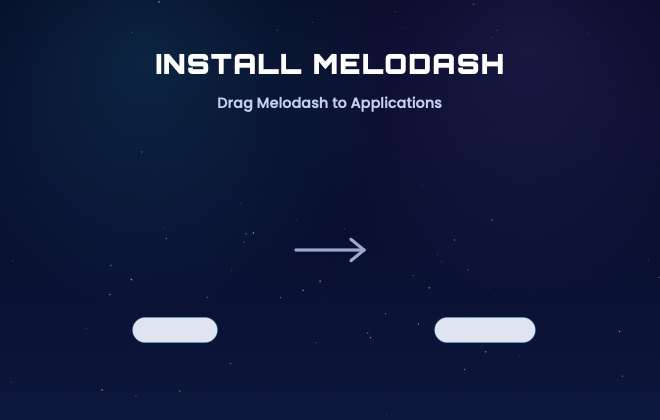
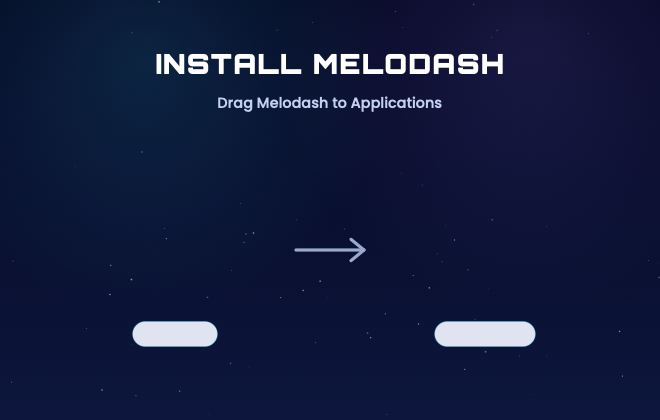
fix: correct the framework rpath so the app launches
Adding Sparkle left LD_RUNPATH_SEARCH_PATHS at "@executable_path/Frameworks",
the iOS layout. In a macOS bundle the executable sits in Contents/MacOS, so
that resolves to Contents/MacOS/Frameworks, while the framework is copied to
Contents/Frameworks. dyld could not find Sparkle and the app aborted at launch:

  Library not loaded: @rpath/Sparkle.framework/Versions/B/Sparkle
  tried: .../Melodash.app/Contents/MacOS/Frameworks/Sparkle.framework/... (no such file)

Point the rpath at "@executable_path/../Frameworks".

This shipped because signing, notarization and Gatekeeper were all verified
without ever launching the built app — every one of those passes happily on a
binary that cannot resolve its own frameworks. Release verification now
includes installing from the DMG to /Applications and launching it.

Also nudge the DMG label plates from y=330 to y=334, where Finder actually
centres the label text, and fix two comments left stale by the move off
dmgbuild.

Claude-Session: https://claude.ai/code/session_01DGUVduzKxQ7RoRLyrQayVR

Changed region(s): [[0.1818, 0.7429, 0.3333, 0.8357], [0.6667, 0.7429, 0.8182, 0.8357], [0.6364, 0.7738, 0.6667, 0.8048]]

diff --git a/scripts/make-dmg-background.swift b/scripts/make-dmg-background.swift
@@ -24,9 +24,9 @@ import UniformTypeIdentifiers
 
 // MARK: - Layout
 //
-// Point geometry of the DMG window's content area. dmgbuild positions the two
-// real Finder icons on top of this art, so ICON_CENTER_Y / *_ICON_X here must
-// stay in step with settings in scripts/dmg-settings.py.
+// Point geometry of the DMG window's content area. build-dmg.sh positions the
+// two real Finder icons on top of this art, so the coordinates here must stay
+// in step with the ones in scripts/build-dmg.sh.
 
 let W: CGFloat = 660
 let H: CGFloat = 420
@@ -41,9 +41,9 @@ let appsIconX: CGFloat = 485
 // dark art the names would be unreadable. Painting a light plate behind each
 // one is the way to keep the cosmic background and still read the labels.
 //
-// Measured against a real build: with a 128pt icon centred at y=250, the label
-// baseline band sits at roughly y=330.
-let labelCenterY: CGFloat = 330
+// Measured against a real build: with a 128pt icon centred at y=250, Finder's
+// label text centres on roughly y=334.
+let labelCenterY: CGFloat = 334
 let labelFontSize: CGFloat = 13      // matches text_size set on the window
 let appLabel = "Melodash"            // Melodash.app with the extension hidden
 let appsLabel = "Applications"
